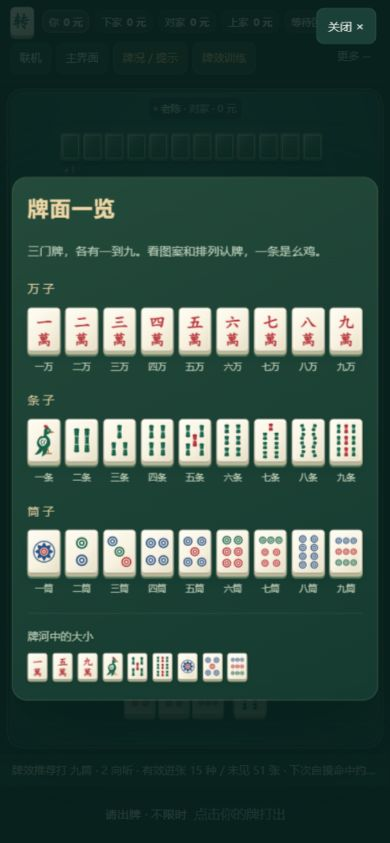
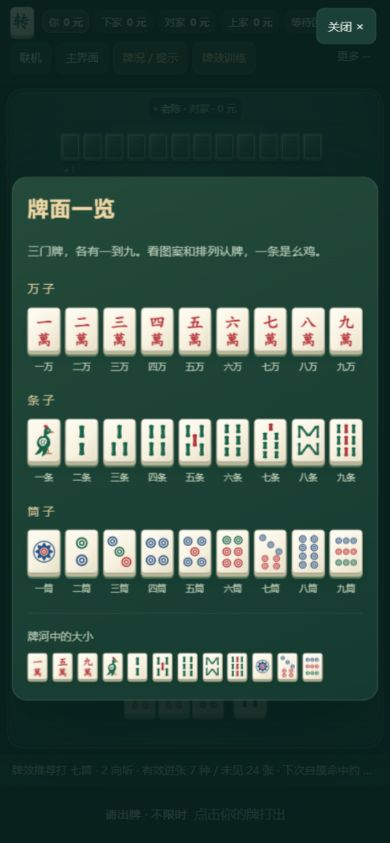
Correct bamboo silhouettes and diagonal seven-circle layout

diff --git a/index.html b/index.html
@@ -2486,18 +2486,18 @@ window.onerror = function (msg, src, line, col) {
     4: { r: 8.7, pts: [[13, 17], [35, 17], [13, 47], [35, 47]], colors: 'bbbb' },
     5: { r: 7.8, pts: [[12, 14], [36, 14], [24, 32], [12, 50], [36, 50]], colors: 'bbrbb' },
     6: { r: 7.5, pts: [[14, 12], [34, 12], [14, 32], [34, 32], [14, 52], [34, 52]], colors: 'ggrrrr' },
-    7: { r: 6.2, pts: [[10, 12], [24, 12], [38, 12], [14, 33], [34, 33], [14, 52], [34, 52]], colors: 'gggrrrr' },
+    7: { r: 5.8, pts: [[10, 8], [24, 20], [38, 32], [14, 44], [34, 44], [14, 57], [34, 57]], colors: 'bbbrrrr' },
     8: { r: 6.4, pts: [[14, 10], [34, 10], [14, 25], [34, 25], [14, 40], [34, 40], [14, 55], [34, 55]], colors: 'bbbbbbbb' },
     9: { r: 5.5, pts: [[11, 13], [24, 13], [37, 13], [11, 32], [24, 32], [37, 32], [11, 51], [24, 51], [37, 51]], colors: 'bbbrrrggg' }
   };
   var STICK_LAYOUT = {
-    2: { L: 42, W: 8.6, pts: [[15, 32], [33, 32]], accent: [] },
+    2: { L: 22, W: 9.4, pts: [[24, 17], [24, 47]], accent: [] },
     3: { L: 24, W: 8, pts: [[24, 17], [14, 47], [34, 47]], accent: [] },
     4: { L: 24, W: 8, pts: [[14, 17], [34, 17], [14, 47], [34, 47]], accent: [] },
     5: { L: 22, W: 7.6, pts: [[12, 16], [36, 16], [24, 32], [12, 48], [36, 48]], accent: [2] },
     6: { L: 16, W: 8.2, pts: [[14, 12], [34, 12], [14, 32], [34, 32], [14, 52], [34, 52]], accent: [] },
     7: { L: 13, W: 7.6, pts: [[24, 9], [14, 25], [34, 25], [14, 41], [34, 41], [14, 57], [34, 57]], accent: [0] },
-    8: { L: 13, W: 7, pts: [[14, 10, -18], [34, 10, 18], [14, 25, 18], [34, 25, -18], [14, 40, -18], [34, 40, 18], [14, 55, 18], [34, 55, -18]], accent: [] },
+    8: { L: 22, W: 4.8, pts: [[8, 17], [17, 16, -38], [31, 16, 38], [40, 17], [8, 47], [17, 48, 38], [31, 48, -38], [40, 47]], accent: [] },
     9: { L: 16, W: 6.7, pts: [[11, 12], [24, 12], [37, 12], [11, 32], [24, 32], [37, 32], [11, 52], [24, 52], [37, 52]], accent: [1, 4, 7] }
   };
   function svgWrap(inner) {
@@ -2510,18 +2510,17 @@ window.onerror = function (msg, src, line, col) {
       '<circle r="' + r + '"/><circle r="' + (r * .72).toFixed(2) + '" fill="#f8f2e2"/>' +
       '<circle r="' + (r * .49).toFixed(2) + '"/><circle r="' + (r * .25).toFixed(2) + '" fill="#f8f2e2"/></g>';
   }
-  // 收腰竹身与横向竹节；倾斜的八条与六条保持不同轮廓。
+  // 竹身始终连续，深色竹节不会将一根切成几根；八条为上 M、下 W 的八根竹。
   function stickSvg(cx, cy, L, W, accent, angle) {
     var x = W / 2, y = L / 2, ink = TILE_INKS[accent ? 'r' : 'g'];
     function f(n) { return +n.toFixed(2); }
     var shape = 'M' + f(-x) + ' ' + f(-y + 1) + 'Q0 ' + f(-y - 1) + ' ' + f(x) + ' ' + f(-y + 1) +
       'L' + f(x * .72) + ' -1Q' + f(x * .64) + ' 0 ' + f(x * .72) + ' 1L' + f(x) + ' ' + f(y - 1) +
       'Q0 ' + f(y + 1) + ' ' + f(-x) + ' ' + f(y - 1) + 'L' + f(-x * .72) + ' 1Q' + f(-x * .64) + ' 0 ' + f(-x * .72) + ' -1Z';
-    var joints = L > 30 ? [-L / 6, L / 6] : [0];
     return '<g transform="translate(' + cx + ' ' + cy + ') rotate(' + (angle || 0) + ')">' +
       '<path d="' + shape + '" fill="' + ink + '"/>' +
       '<path d="M' + f(-x * .45) + ' ' + f(-y + 3) + 'L' + f(-x * .35) + ' ' + f(y - 3) + '" stroke="#fff8d8" stroke-opacity=".24" stroke-width=".85" stroke-linecap="round"/>' +
-      joints.map(function (j) { return '<path d="M' + f(-x * .78) + ' ' + f(j) + 'H' + f(x * .78) + '" stroke="#f8f2e2" stroke-width="1.2"/>'; }).join('') +
+      '<path d="M' + f(-x * .7) + ' 0H' + f(x * .7) + '" stroke="#082e22" stroke-opacity=".48" stroke-width="1.2"/>' +
       '<path d="M' + f(-x * .7) + ' ' + f(-y + 2) + 'H' + f(x * .7) + 'M' + f(-x * .7) + ' ' + f(y - 2) + 'H' + f(x * .7) + '" stroke="#071e18" stroke-opacity=".3" stroke-width="1.1" stroke-linecap="round"/></g>';
   }
   // 幺鸡：侧身、长尾与一小笔朱红冠，避免缩小后像空心圆。
@@ -3831,7 +3830,7 @@ window.onerror = function (msg, src, line, col) {
     });
     var small = document.createElement('div'); small.className = 'tileAtlasSmall';
     small.innerHTML = '<span>牌河中的大小</span><div class="tiles"></div>';
-    [0, 4, 8, 9, 13, 17, 18, 22, 26].forEach(function (k) { small.querySelector('.tiles').appendChild(tileEl(k, 'xs')); });
+    [0, 4, 8, 9, 10, 13, 14, 16, 17, 18, 24, 26].forEach(function (k) { small.querySelector('.tiles').appendChild(tileEl(k, 'xs')); });
     atlas.appendChild(small); openModal();
   }
   function showRules() {

diff --git a/tests/offline.test.js b/tests/offline.test.js
@@ -10,7 +10,7 @@ function worker(fetch) {
   vm.runInNewContext(fs.readFileSync(path.join(__dirname, '..', 'sw.js'), 'utf8'), {
     URL, fetch,
     self: { location: { href: 'https://example.com/mahjong/sw.js' }, clients: { claim: async () => {} }, addEventListener: (name, fn) => handlers[name] = fn },
-    caches: { keys: async () => ['zmj-v15', 'zmj-v16', 'zmj-v17', 'zmj-v18', 'zmj-v19', 'zmj-v20', 'zmj-v21', 'zmj-v22', 'another-project-v1'], delete: async key => deleted.push(key), open: async () => cache, match: async () => undefined }
+    caches: { keys: async () => ['zmj-v15', 'zmj-v16', 'zmj-v17', 'zmj-v18', 'zmj-v19', 'zmj-v20', 'zmj-v21', 'zmj-v22', 'zmj-v23', 'another-project-v1'], delete: async key => deleted.push(key), open: async () => cache, match: async () => undefined }
   });
   async function request(url = 'https://example.com/mahjong/?room=1234') {
     let response, pending = [];
@@ -23,7 +23,7 @@ function worker(fetch) {
 test('offline upgrade removes only this game old caches', async () => {
   const w = worker(); let done;
   w.handlers.activate({ waitUntil: x => done = x }); await done;
-  assert.deepEqual(w.deleted, ['zmj-v15', 'zmj-v16', 'zmj-v17', 'zmj-v18', 'zmj-v19', 'zmj-v20', 'zmj-v21']);
+  assert.deepEqual(w.deleted, ['zmj-v15', 'zmj-v16', 'zmj-v17', 'zmj-v18', 'zmj-v19', 'zmj-v20', 'zmj-v21', 'zmj-v22']);
 });
 test('failed HTTP responses are not cached; room links share one offline page', async () => {
   const error = worker(async () => ({ ok: false, status: 503 }));

diff --git a/sw.js b/sw.js
@@ -1,6 +1,6 @@
 /* 转转麻将 · Service Worker：离线可用 + 自动更新
  * 策略：页面走 network-first（保证更新及时），静态资源走 cache-first（保证离线）。 */
-var CACHE = 'zmj-v22';
+var CACHE = 'zmj-v23';
 var ASSETS = ['./', './index.html', './manifest.webmanifest', './icon-512.png'];
 self.addEventListener('install', function (e) {
   e.waitUntil(caches.open(CACHE).then(function (c) { return c.addAll(ASSETS); }).then(function () { return self.skipWaiting(); }));

diff --git a/视觉设计说明.md b/视觉设计说明.md
@@ -27,13 +27,19 @@
 
 根据用户对条子和筒子的反馈，重画整套图案：
 
-- 条子使用收腰竹身、清楚的横节和墨绿配色，八条采用倾斜竹节；一条重绘为侧身长尾幺鸡。
-- 筒子改为红、绿、蓝的同色套环，移除逐个圆点的红蓝高光；一筒使用花形纹样，七至九筒留出圆点间距。
+- 条子使用连续竹身、暗色竹节和墨绿配色；二条上下分列两根，八条改为上 M、下 W；一条重绘为侧身长尾幺鸡。
+- 筒子改为红、绿、蓝的同色套环，移除逐个圆点的红蓝高光；一筒使用花形纹样，七筒上三点斜排、下四点方排，七至九筒留出圆点间距。
 - 万子取消多层字影，统一为清楚的朱红字形。
 - 每个牌面都是独立 SVG，缩放时无位图模糊，也不再依赖页面上的共享渐变定义。图案以自绘路径组合；[布鲁克林博物馆的实物牌资料](https://www.brooklynmuseum.org/objects/164742)作为配色与排列的参考资料之一。
 - 增加“更多 → 牌面一览”，一次查看 27 种牌及牌河中的小尺寸。浏览时不修改牌局，关闭后焦点回到可见菜单。
 
-本轮完整检查仍为 77 项规则／服务端测试、12 组浏览器流程通过；界面组扩至 32 条断言。检查了桌面及手机的全部新牌面，缓存版本为 `zmj-v22`。真实手机触感与不同设备显示仍需实机确认。
+首次重绘的完整检查为 77 项规则／服务端测试、12 组浏览器流程通过；界面组扩至 32 条断言，缓存版本为 `zmj-v22`。
+
+### 辨识校正
+
+用户指出二条容易看成六条、八条不熟悉、七筒上三点应斜排。本次检索并实际查看了[实物牌参考图](https://www.mahjongtiles.com/image/cache/catalog/bnb-022-500x500.jpg)：七筒上三点沿斜线排列，八条呈上下两组、每组四根的轮廓。依此调整布局；二条上下各一根短竹，竹节不再用白色横线切断，避免两根被误看成六段。小尺寸预览补入二条、六条、八条与七筒，便于直接比较。
+
+本次校正通过界面布局 32 条、逐张选牌 11 条浏览器断言，以及 3 项离线更新测试、自包含检查。规则与推荐引擎逐字比较一致。实际查看桌面和 390×844 竖屏，截图已更新；缓存升级至 `zmj-v23`。真实手机触感与不同设备显示仍需实机确认。
 
 ![最新牌面细节](reports/screenshots/tile-faces.jpg)
 

diff --git a/发布与回滚.md b/发布与回滚.md
@@ -22,11 +22,11 @@
 
 结算亮牌也需要前后端一起更新：旧服务器不提供 `hand.revealed`，新前端会明确提示无法取得终局手牌。局中不得出现该字段；结算后才下发四家暗牌，下一局移除。验收时检查荒庄、自摸、一炮多响、关闭后重开，以及别人先续局时能返回当前牌局。
 
-服务器只保存在内存中的房间，重启后丢失；安排维护时先告知正在同桌的玩家。不要承诺重启后自动续局。当前离线缓存为 `zmj-v22`。
+服务器只保存在内存中的房间，重启后丢失；安排维护时先告知正在同桌的玩家。不要承诺重启后自动续局。当前离线缓存为 `zmj-v23`。
 
 联机响应修复需要更新并重启 Node 进程，单纯刷新页面不会替换进程内已加载的服务端代码。新版先确认真人操作并回传牌面，再异步推进电脑；旧前端仍可使用。新前端连旧服务器时提示更新后才能测量网络往返。重启前确认无进行中的牌局；随后在「联机」面板核对往返、操作确认及服务器处理耗时，见 [排查记录](联机响应排查.md)。
 
-新版联机前端使用 Blob Worker 采样，HTTP 文本响应支持 gzip。验收时确认浏览器正常创建后台任务、失败时仍可出牌，压缩和未压缩页面内容一致、离线更新能取得 v22。如自行添加 CSP，需允许该页面使用 Blob Worker；具体策略变更应另行验证。线路探针支持 HTTPS/WSS 且不加入房间，但自签名服务的默认受信任证书问题仍需独立处理。
+新版联机前端使用 Blob Worker 采样，HTTP 文本响应支持 gzip。验收时确认浏览器正常创建后台任务、失败时仍可出牌，压缩和未压缩页面内容一致、离线更新能取得 v23。如自行添加 CSP，需允许该页面使用 Blob Worker；具体策略变更应另行验证。线路探针支持 HTTPS/WSS 且不加入房间，但自签名服务的默认受信任证书问题仍需独立处理。
 
 视觉改版验收还需查看三个大厅入口、手机横竖屏手牌、更多菜单与设置关闭后的焦点，以及训练和结算的滚动。在“更多 → 牌面一览”核对新条子、筒子和三门牌的排列。截图与设计说明见 [视觉设计说明](视觉设计说明.md)。该轮仅更新前端，无须为样式改动单独重启现有联机房间。
 

diff --git a/实施记录.md b/实施记录.md
@@ -2,6 +2,12 @@
 
 日期：2026-10-17。工作分支：`codex/mahjong-training-quality`。
 
+## 第七轮：二条、八条与七筒辨识校正
+
+按用户指出的认牌问题，检索并实际查看网上实物牌图，来源与截图见 [视觉设计说明](视觉设计说明.md)。二条改为上下两根短竹，所有竹节改为不切断竹身的深色刻线；八条改为上 M、下 W 的两组四根布局；七筒上方三点改为斜排，下方四点保持方排。小尺寸一览补入二条、六条、八条及七筒，直接检查区别。
+
+相关验证：32 条界面布局断言、11 条真实触屏选择断言、3 项离线测试及零依赖检查通过。桌面与 390×844 竖屏已实际检查，规则与推荐引擎与上一提交逐字一致。缓存升级为 v23。继续在原功能分支提交供审查。
+
 ## 第六轮：条子、筒子与整套牌面重绘
 
 按用户反馈重画牌面。条子由圆柱改为墨绿竹身与横节，重绘幺鸡；筒子采用有留白的同色套环和三色排列，重绘一筒花纹，调整七至九筒的圆点间距；万子统一朱红并移除偏移字影。全部使用独立内联 SVG，清除旧的共享渐变定义，无外部资源依赖。
